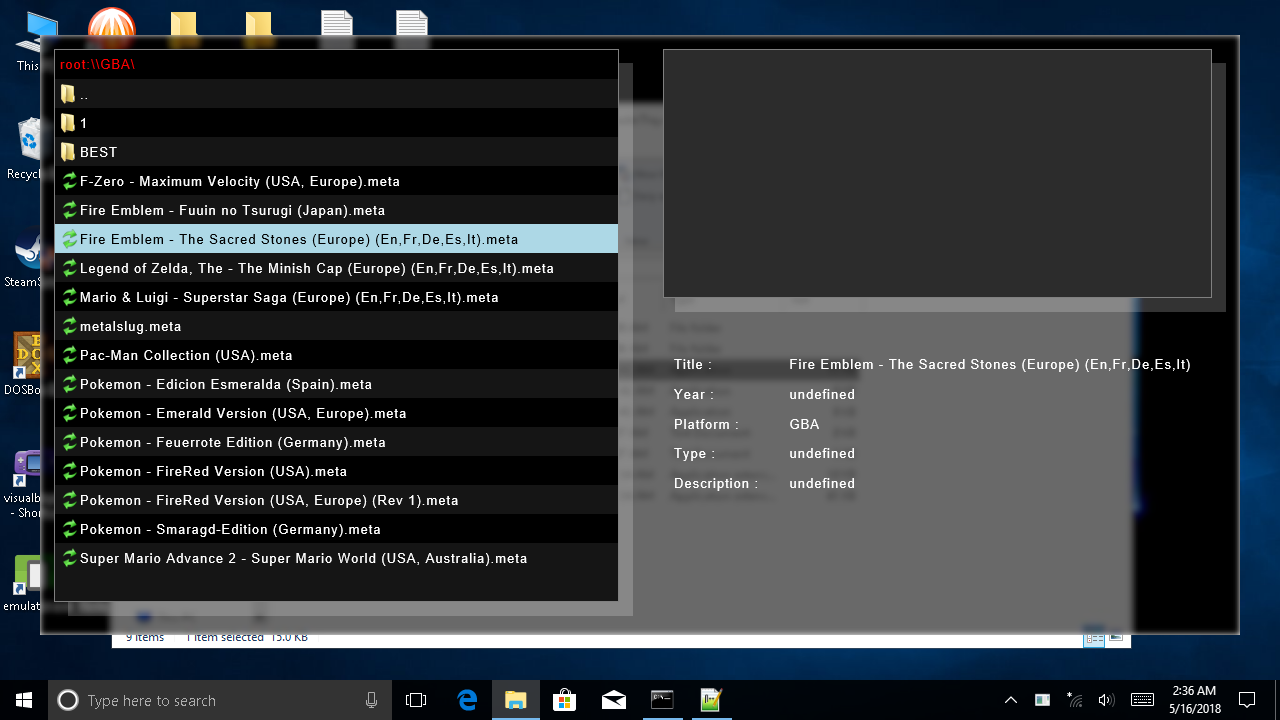
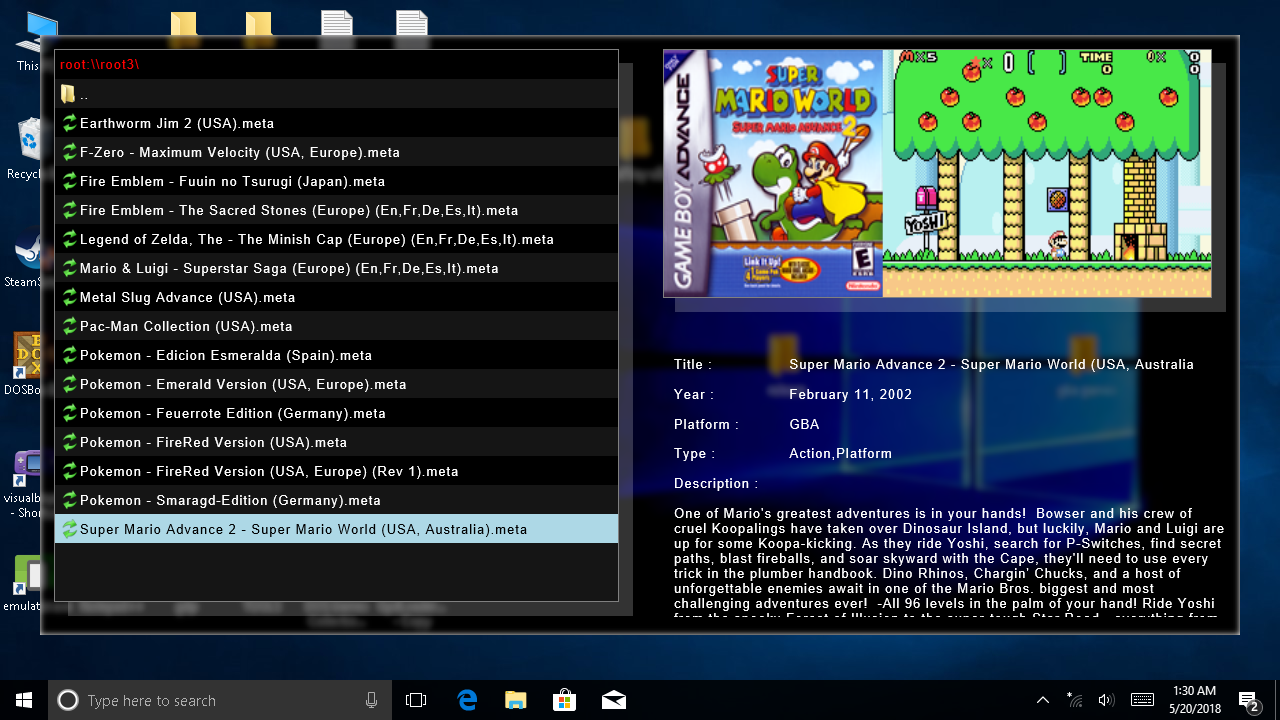
Second commit

diff --git a/GpdLoaderTray1/html/index2.html b/GpdLoaderTray1/html/index2.html
@@ -123,6 +123,7 @@
             document.getElementById("navbar").innerText = name;
             currentFolder = name;
             this.selectedItem = sel;
+            //LoadInfo(folders[currentFolder][selectedItem].name);
             setTimeout(function () { LoadInfo2(folders[currentFolder][selectedItem].name);  }, 1);
         }
 
@@ -138,25 +139,56 @@
 
         var current_info;
 
+        function LoadInfo(item_name) {
+
+            var inp = window.external.GetItemInfo(item_name, currentFolder);
+
+            if (inp == "-1") return;
+
+            current_info = JSON.parse(inp);
+            document.getElementById("title").innerHTML = current_info.title;
+            document.getElementById("year").innerHTML = current_info.year;
+            document.getElementById("platform").innerHTML = current_info.platform;
+            document.getElementById("type").innerHTML = current_info.type;
+            document.getElementById("description").innerHTML = current_info.description;
+
+            if (current_info.picture == undefined) {
+                document.getElementById("picture").src = null;
+            }
+            else {
+                document.getElementById("picture").src = "..\\root\\" + currentFolder.replace("root:\\\\", "") + current_info.picture;
+            }
+
+        }
+
         function LoadInfo2(item_name) {
 
             var inp = window.external.GetItemInfo(item_name, currentFolder);
 
             if (inp == "-1") return;
-            
+            //alert(0);
             current_info = JSON.parse(inp);
-            
+            //document.getElementById("title").innerHTML = current_info.title;
+            //document.getElementById("year").innerHTML = current_info.year;
+            //document.getElementById("platform").innerHTML = current_info.platform;
+            //document.getElementById("type").innerHTML = current_info.type;
+            //document.getElementById("description").innerHTML = current_info.description;
             var preMeta = document.getElementById("meta");
             preMeta.innerHTML =
                 "Title : \t\t\t" + current_info.title.substring(0,57) + "\n\n" +
                 "Year : \t\t\t" + current_info.year + "\n\n" +
                 "Platform : \t\t" + current_info.platform + "\n\n" +
                 "Type : \t\t\t" + current_info.type + "\n\n" +
-                "Description : \t" + current_info.description;
-                
-
+                "Description : \n\n" + current_info.description;
+               setTimeout(function(){ 
+            document.getElementById("picture").src = "..\\root\\" + currentFolder.replace("root:\\\\", "") + current_info.picture;},25);
             //if (current_info.picture == undefined) {
-            //    document.getElementById("picture").src = null;
+              
+			  
+			  /*
+			  document.getElementById("picture").src = "http://www.planetemu.net/data/screenshots/Nintendo - Game - Boy - Advance/" + current_info.title + ".png" ;
+			  document.getElementById("picture").src = "http://www.thecoverproject.net/images/covers/gba_cartoonetworkspeedway_2_thumb.jpg";*/
+			  
             //}
             //else {
             //    document.getElementById("picture").src = "..\\root\\" + currentFolder.replace("root:\\\\", "") + current_info.picture;
@@ -179,9 +211,9 @@
                 sel.className += " selected";
                 sel.childNodes.item(1).className += " selected";
 
-                
+                //LoadInfo(folders[currentFolder][selectedItem].name);
                 setTimeout(function () { LoadInfo2(folders[currentFolder][selectedItem].name); }, 1);
-				
+				//LoadInfo2(folders[currentFolder][selectedItem].name);
                 var inp = window.external.GetItemInfo(folders[currentFolder][selectedItem].name, currentFolder);
                 current_info = JSON.parse(inp);
                 fixScroll(sel);
@@ -206,7 +238,7 @@
                 sel.className += " selected";
                 sel.childNodes.item(1).className += " selected";
 
-                
+                //LoadInfo(folders[currentFolder][selectedItem].name);
                 setTimeout(function () { LoadInfo2(folders[currentFolder][selectedItem].name); }, 1);
                 var inp = window.external.GetItemInfo(folders[currentFolder][selectedItem].name, currentFolder);
                 current_info = JSON.parse(inp);

diff --git a/README.md b/README.md
@@ -1,20 +1,22 @@
-**GpdLoaderTray v0.4** - Application for GPD Win handheld computer.
+**GpdLoaderTray v0.5** - Application for GPD Win handheld computer.
 
 GpdLoaderTray is an application that starts in windows system tray, and is activated when handheld is switched to X-controller.
 Once activated application can load imported GBA and MSDOS games.
 
-## Screenshots(v0.4)
+## Screenshots(v0.5)
 
 ![screenshot1](/images/screenshot.png)
 
 
+## Before you start
+ 0. Download GpdLoaderTray release zip file, and extract to folder.
+ 1. Run importgba_gui.exe to import GBA games.
+ 2. Run importexe.exe command to import MSDOS games. (no parameters will display usage information)
+ 3. Move created imports to root folder.
+ 
 ## Starting application
- 0. download GpdLoaderTray release zip file, and extract to folder.
- 1. run importexe.exe to import MSDOS games. (no parameters will display usage information)
- 2. run importgba.exe to import GBA games. (no parameters will display usage information)
- 3. move created imports to root folder.
- 4. run GpdLoaderTray1.exe application.
- 5. switch to X-controller. (main loader screen will be displayed, switch off to hide screen)
+ 0. Run GpdLoaderTray1.exe application.
+ 1. Switch to X-controller. (main loader screen will be displayed, switch off to hide screen)
 
 ## Usage (main loader screen)
  - D-Pad Up/Down : move up/down 
@@ -23,17 +25,17 @@ Once activated application can load imported GBA and MSDOS games.
  - Y Button :	go to previous folder
 
 ## Importing games
- - before importing GBA or MSDOS games make sure emulators are installed and configured.
+ - Before importing GBA or MSDOS games make sure emulators are installed and configured.
  (emulators tested : visalboyadvance, DOSBox) 
- - after each import, application must be restarted.
+ - After each import, application must be restarted.
  
-## Features(v0.4)
- - portable
- - quick switch show/hide loader screen
- - folders
- - customizable UI via HTML/CSS/JAVASCRIPT 
- - tested with GBA and MSDOS games with VisualBoyAdvance and DOSBox emulators, can also run any windows shortcut.
- - import multiple GBA games.
- - import MSDOS games
+## Features(v0.5)
+ - Portable
+ - Quick switch show/hide loader screen
+ - Folders
+ - Customizable or redesign UI via HTML/CSS/JAVASCRIPT 
+ - Tested with GBA and MSDOS games with VisualBoyAdvance and DOSBox emulators, can also run any windows shortcut.
+ - Import multiple GBA games (GUI tool).
+ - Import MSDOS games (command line tool).
  
 
